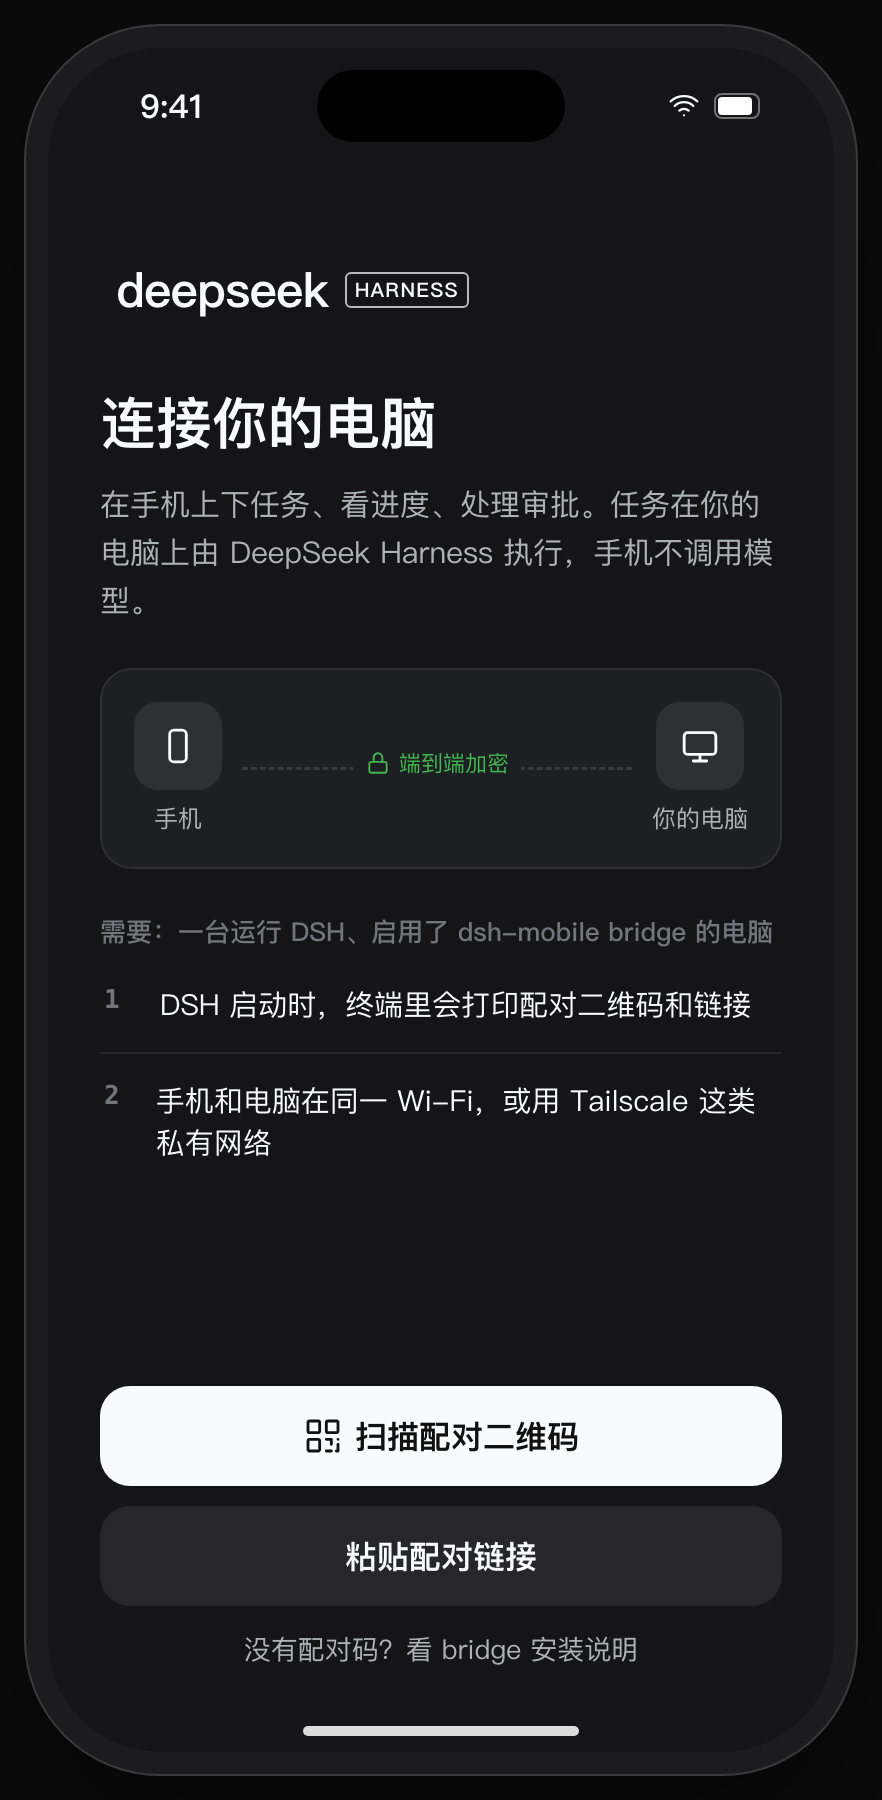
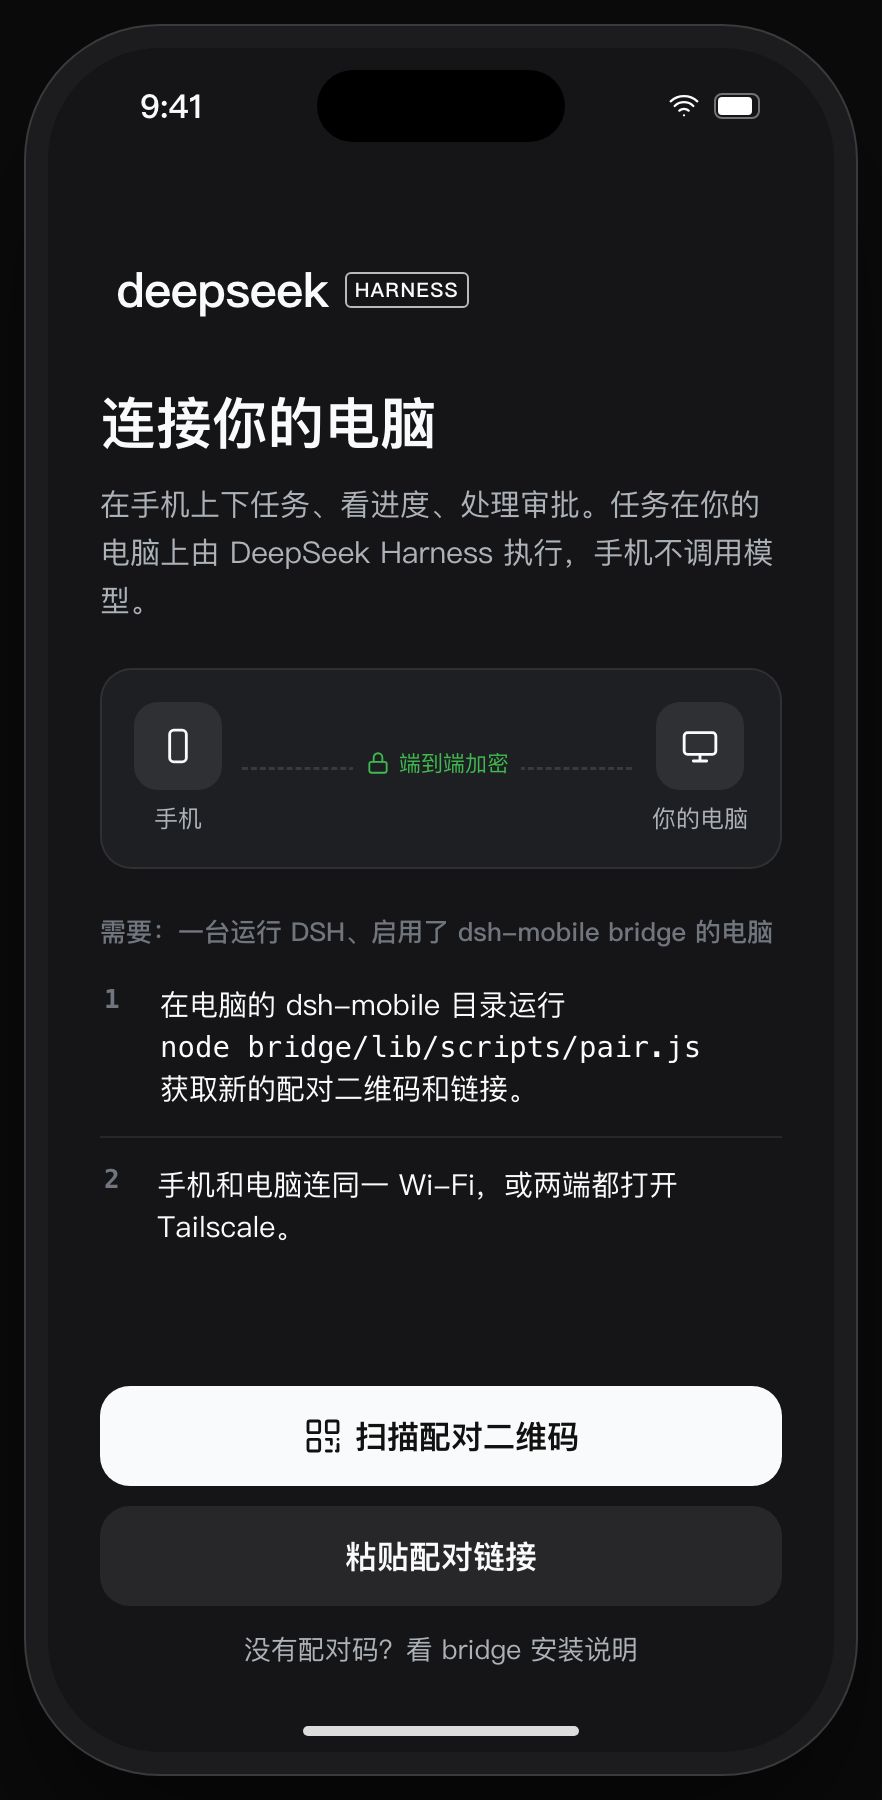
Align first-run pairing and lock-screen designs with the bridge

diff --git a/design/screens/08.html b/design/screens/08.html
@@ -20,8 +20,8 @@
     </div>
     <div style="margin-top:22px;font-size:13px;color:var(--t3);font-weight:500">需要：一台运行 DSH、启用了 dsh-mobile bridge 的电脑</div>
     <div class="list" style="margin-top:4px">
-      <div class="li"><span style="font:600 13px var(--mono);color:var(--t3);width:16px">1</span><div style="font-size:14.5px;line-height:1.45">DSH 启动时，终端里会打印配对二维码和链接</div></div>
-      <div class="li"><span style="font:600 13px var(--mono);color:var(--t3);width:16px">2</span><div style="font-size:14.5px;line-height:1.45">手机和电脑在同一 Wi-Fi，或用 Tailscale 这类私有网络</div></div>
+      <div class="li"><span style="font:600 13px var(--mono);color:var(--t3);width:16px">1</span><div style="font-size:14.5px;line-height:1.45">在电脑的 dsh-mobile 目录运行<br><code>node bridge/lib/scripts/pair.js</code><br>获取新的配对二维码和链接。</div></div>
+      <div class="li"><span style="font:600 13px var(--mono);color:var(--t3);width:16px">2</span><div style="font-size:14.5px;line-height:1.45">手机和电脑连同一 Wi-Fi，或两端都打开 Tailscale。</div></div>
     </div>
     <div style="margin-top:auto;margin-bottom:42px">
       <div class="btn tall primary"><svg class="i"><use href="#qr"/></svg>扫描配对二维码</div>
@@ -33,7 +33,7 @@
 </div>
 <div class="cap"><h3><i>08</i>首次启动<span class="mtag m1">M1 · 换样式</span></h3><ul>
   <li>文案和流程：讲清是什么、缺什么；扫码，没有相机就粘贴链接。</li>
-  <li>配对码来自电脑终端（不是 DSH 界面里的入口）；说明网络要求。</li>
+  <li>电脑使用运行中 bridge 的状态目录生成配对码，默认 10 分钟有效，仅可使用一次。找不到启动时的码或码已过期，就再运行一次命令。手机扫码或粘贴链接后，核对电脑并点「配对」。</li>
   <li>配对成功后进入 01，输入框里已经填好一条可编辑的第一个任务，用户改完自己发送。</li>
 </ul></div>
 </div>

diff --git a/design/screens/X1.html b/design/screens/X1.html
@@ -37,11 +37,11 @@
   <div class="homebar"></div>
 </div>
 <div class="cap"><h3><i>X1</i>失败<span class="mtag m1">M1 · 补状态</span></h3><ul>
-  <li>§4 叫回用户的三种时刻之一。顶部进度条变红，写明停在第几步。</li>
+  <li>任务失败时，顶部进度条变红，写明停在第几步。</li>
   <li>错误原文照给（任务的 failure message），可以“复制错误”。已经做了什么、东西在哪，由 Agent 自己在卡片上方的回答里说；App 不另写摘要。</li>
   <li>§8 模型失效（模型不存在、密钥无效、没有余额、限流重试后仍失败）也落在这里，不停下等人：DSH 给的原文照给，右边小字是 DSH 的失败类别；只有密钥无效、额度用尽用 App 自己的话（“API 密钥无效”“当前请求的额度已用尽”），和 DSH Web 一样。</li>
   <li>“新会话里再试”把原话预填进 01 的输入框。也可以在原会话里接着说：充值或修好后，在输入框发一条消息，任务在同一个会话里继续，卡片换成新一轮的结果。不放充值链接，也不在卡片里换模型。</li>
-  <li>“卡住”（很久没有新进展）要靠推送提醒，放 M2。被停止的任务同样标在这里：同一张卡，写“任务已停止”，不变红，只有“新会话里再试”。停止后可以在原会话里接着说：新消息发到同一个 DSH 会话，任务回到运行中，“任务已停止”的卡片消失，顶部进度条也改写当前状态。</li>
+  <li>被停止的任务同样标在这里：同一张卡，写“任务已停止”，不变红，只有“新会话里再试”。停止后可以在原会话里接着说：新消息发到同一个 DSH 会话，任务回到运行中，“任务已停止”的卡片消失，顶部进度条也改写当前状态。</li>
 </ul></div>
 </div>
 <script src="../kit/kit.js"></script>

diff --git a/design/screens/L.html b/design/screens/L.html
@@ -21,27 +21,13 @@
         </div>
         <div class="prog" style="height:5px;margin-top:11px;background:rgba(255,255,255,.12)"><i style="width:58%"></i></div>
       </div>
-      <div class="glass">
-        <div class="notif"><div class="appic">DSH</div><div style="flex:1">
-          <div class="h"><span>需要你批准</span><small>现在</small></div>
-          <p>整理 Q3 报表成 PPT 想执行 rm -rf ~/Desktop/Q3/tmp</p>
-          <div class="acts"><span>打开查看</span><span>拒绝</span></div>
-        </div></div>
-      </div>
-      <div class="glass" style="opacity:.92">
-        <div class="notif"><div class="appic">DSH</div><div style="flex:1">
-          <div class="h"><span>已完成</span><small>8 分钟前</small></div>
-          <p>Q3 summary slides · MacBook-Pro</p>
-        </div></div>
-      </div>
     </div>
   </div>
   <div class="homebar"></div>
 </div>
-<div class="cap"><h3><i>L</i>锁屏<span class="mtag mx">M2 · 实时活动已有 · 推送未做</span></h3><ul>
+<div class="cap"><h3><i>L</i>锁屏<span class="mtag mx">本机实时活动</span></h3><ul>
   <li>实时活动（§4）：每个运行中的任务一个，在锁屏和灵动岛上：标题、执行端 · 最新一步、计时（App 挂起时也在走）、n/m 进度。</li>
-  <li>完成、失败、停止，或等你批准、回答时结束，留在锁屏上；再运行时换成新的一个。只在本机更新（App 在前台时），不经 APNs；久未更新时标“未更新”。</li>
-  <li>推送（M2，要付费账号）：只在需要决策、失败或卡住、完成时推送；高风险不能在锁屏批准。</li>
+  <li>完成、失败、停止，或等你批准、回答时结束，留在锁屏上；再运行时换成新的一个。只在本机更新（App 在前台时）；久未更新时标“未更新”。</li>
 </ul></div>
 </div>
 <script src="../kit/kit.js"></script>

diff --git a/design/screens/P1.html b/design/screens/P1.html
@@ -36,7 +36,7 @@
   <div class="homebar"></div>
 </div>
 <div class="cap"><h3><i>P1</i>Agent 提问<span class="mtag m1">M2 · 已有</span></h3><ul>
-  <li>§4/§5：提问和审批一样是“需要决策”，在「所有任务」的等我处理和角标里都算，顶部条变成琥珀色「等你回答」；重启 App 后还在。推送还没有。</li>
+  <li>§4/§5：提问和审批一样是“需要决策”，在「所有任务」的等我处理和角标里都算，顶部条变成琥珀色「等你回答」；重启 App 后还在。</li>
   <li>有选项就给快捷回复，一点即答；多选题选好后点「回答」。也可以直接在输入框回答（「回答 Agent…」），这句话交给提问，不会变成追加消息。卡片随后显示答案；在 Web 上先答了，卡片也收起。</li>
   <li>任务暂停等你，不替你选，也不会超时放弃（没有安全的默认答案）。上游区分“提问”和“审批”。</li>
 </ul></div>

diff --git a/STORY.md b/STORY.md
@@ -60,7 +60,7 @@ DeepSeek Harness 常驻在用户自己的机器上（家里的 Mac、公司的 W
 ## 6. 普通人也能用
 
 - 用结果说话，技术细节按需展开。
-- 配对要做到普通人也能完成（例如在 DSH 的界面上扫码即可连上）。
+- 电脑运行 DSH 并启用 bridge 后，在 dsh-mobile 项目目录运行 `node bridge/lib/scripts/pair.js`，终端会显示一次性二维码和链接，默认 10 分钟有效。使用自定义 DSH_HOME 或 bridge 状态目录时，命令须指向同一目录（见 bridge/README.md）。手机与电脑连同一 Wi-Fi，或两端都打开 Tailscale；在 App 扫码或粘贴链接，核对电脑后点「配对」。码过期或找不到启动时的码，就在电脑上再运行一次命令。
 - 还没有配对任何执行端时，App 要讲清楚自己是什么、还缺什么。
 
 ## 7. 结果直达，手机也提供上下文
@@ -95,7 +95,6 @@ DeepSeek Harness 常驻在用户自己的机器上（家里的 Mac、公司的 W
 
 # 依赖上游 DSH、需要确认的能力
 
-- 配对入口（扫码配对）以及设备授权、吊销。
 - 账号级审批：多个客户端同步同一个待审批项。
 - 任务中途切换模型或推理强度。
 - 往正在运行的会话里追加消息或附件（排队到下一轮，还是立即插入）。

diff --git a/bridge/README.md b/bridge/README.md
@@ -41,11 +41,13 @@ Held approvals: a paired phone or a DSH web client answers a request once. Set `
 
    The plugin starts with the host and listens on `0.0.0.0:47801`. Check with `lsof -nP -iTCP:47801 -sTCP:LISTEN`. While no phone is paired yet, it prints a pairing QR in DSH's log.
 
-4. Pair the phone. For a fresh QR at any time (single use, valid 10 minutes):
+4. Pair the phone. For a fresh QR at any time, run this from the dsh-mobile repository root (single use, valid 10 minutes):
 
    ```sh
    DSH_HOME=~/.dsh node bridge/lib/scripts/pair.js
    ```
+
+   Use the running host’s `DSH_HOME`. If the plugin uses a custom `stateDir`, append `--state-dir /path/to/stateDir`.
 
    In dsh-mobile, tap the QR button and scan it, then tap **Pair**. The QR lists every external IPv4 address of the host (Wi-Fi, Ethernet, Tailscale's `100.x`); the phone tries them in order, so it works on the same Wi-Fi, or over Tailscale when Tailscale is on at both the phone and the host. The link printed under the QR can be pasted into the app instead.
 
